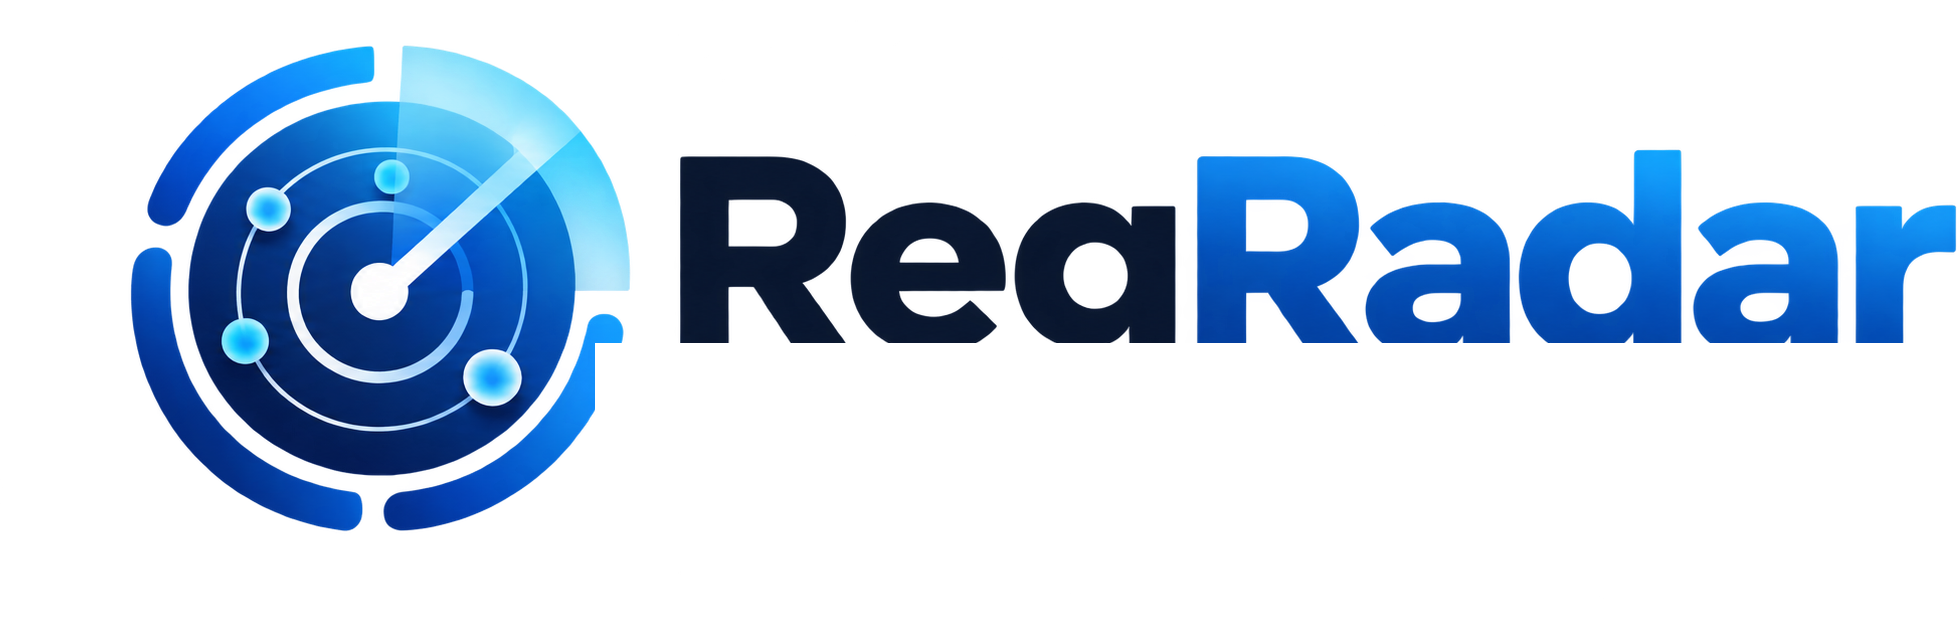
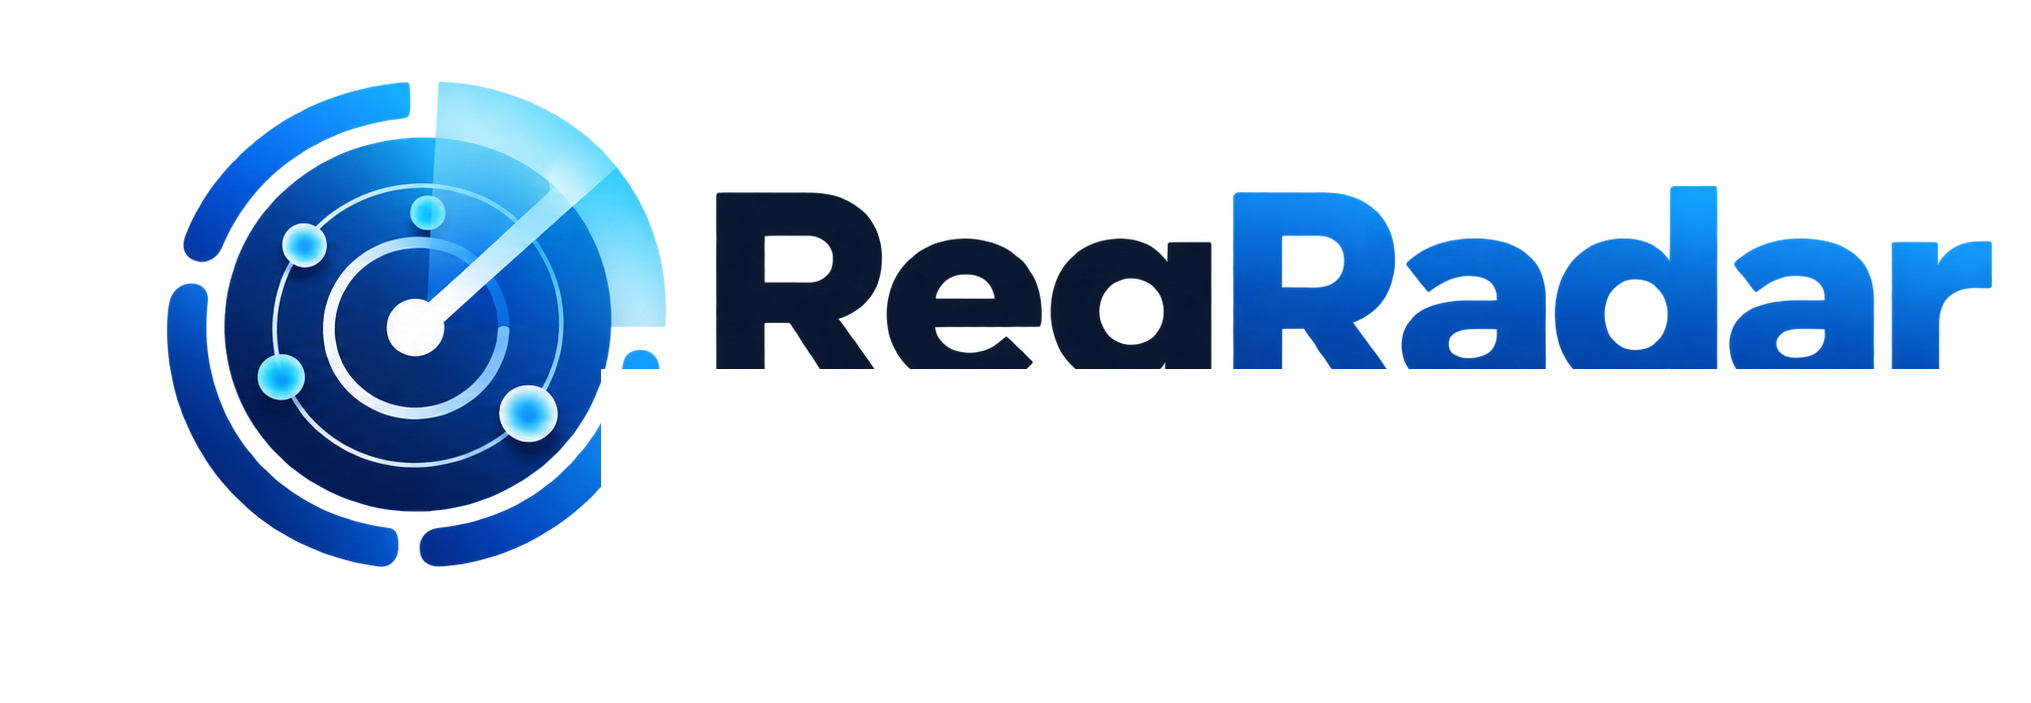
Fix ReqRadar wordmark sizing and spacing

Changed region(s): [[0.0623, 0.0602, 1.0, 0.8431]]

diff --git a/frontend/src/styles.css b/frontend/src/styles.css
@@ -56,10 +56,10 @@ button { color: inherit; }
   background: var(--surface);
   padding: 0.85rem 1.25rem;
 }
-.wordmark { display: grid; min-width: 0; align-items: center; gap: 0.15rem; }
+.wordmark { display: grid; min-width: 0; align-items: center; gap: 0.05rem; }
 .wordmark-image {
   display: block;
-  width: min(21rem, 52vw);
+  width: min(21.25rem, 100%);
   max-width: 100%;
   height: auto;
   object-fit: contain;
@@ -70,7 +70,8 @@ button { color: inherit; }
   font-size: 0.92rem;
   line-height: 1.25;
 }
-.app-header .wordmark-image { width: min(15rem, 40vw); }
+.app-header .wordmark { gap: 0; }
+.app-header .wordmark-image { width: min(15rem, 38vw); }
 .app-header .wordmark p { max-width: min(24rem, 44vw); font-size: 0.78rem; }
 .header-actions { display: flex; align-items: center; gap: 0.65rem; }
 .dev-pill, .user-pill, .theme-control {
